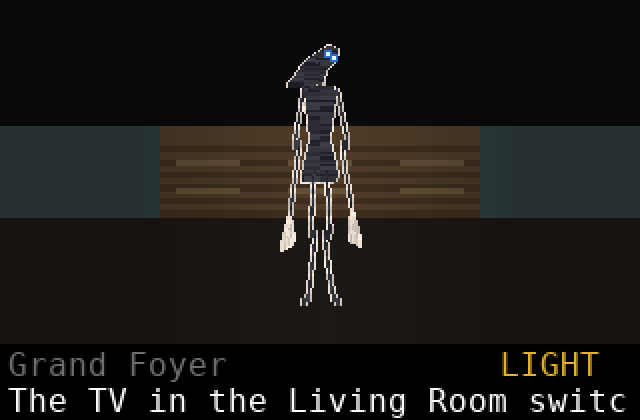
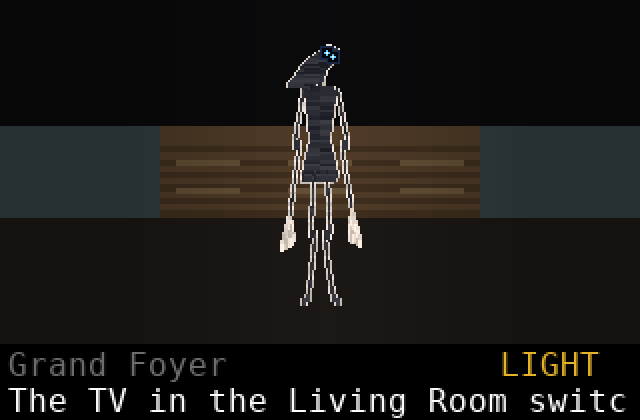
Give Ysolde the game's recessed glowing eyes
The full game draws each eye as a soft dark socket with a faint wide blue
halo, a tight blue bloom and a pin-point cold core, lit most of the time
once she wakes. The demo and icon now draw them the same way.

Claude-Session: https://claude.ai/code/session_01ABga3j6ZJ15ibdVoXrUo56

diff --git a/calc/GHCRYPT.py b/calc/GHCRYPT.py
@@ -396,16 +396,28 @@ def ys_column(x, left, wid, top, h):
                 g = random.randint(28, 62)
                 c = (g, g, g + 8)
             rect(a, y0, b - a, y1 - y0, c)
+    # eyes like the game's: a soft dark socket, a faint wide blue halo,
+    # a tight blue bloom and a pin-point cold core
+    pts = []
     for pa, pb, v0, v1 in eyes:
-        cx = (pa + pb) // 2
         cy = int(top + h * (1 - (v0 + v1) / 2))
-        if x - 2 <= cx < x1 + 2 and 0 <= cy < VH - 2:
-            ha = max(x, cx - 1)
-            hb = min(x1, cx + 3)
-            if hb - ha >= 1:
-                rect(ha, cy - 1, hb - ha, 4, (40, 110, 210))
-            if x <= cx < x1:
-                rect(cx, cy, 2, 2, (230, 250, 255))
+        if 2 <= cy <= VH - 4:
+            pts.append(((pa + pb) // 2, cy))
+    for r, c in ((max(3, int(wid * .045)), (22, 40, 70)), (max(2, int(wid * .028)), (4, 5, 8)),
+                 (max(1, int(wid * .012)), (88, 200, 255)), (0, (232, 251, 255))):
+        for cx, cy in pts:
+            if c[2] == 255 and r > 0:
+                # the bloom is a small plus around the core
+                for bx0, bx1, by0, by1 in ((cx - r, cx + r + 1, cy, cy + 1), (cx, cx + 1, cy - r, cy + r + 1)):
+                    ea = max(x, bx0)
+                    eb = min(x1, bx1)
+                    if eb - ea >= 1:
+                        rect(ea, by0, eb - ea, by1 - by0, c)
+                continue
+            ea = max(x, cx - r)
+            eb = min(x1, cx + r + 1)
+            if eb - ea >= 1:
+                rect(ea, max(0, cy - r), eb - ea, min(VH, cy + r + 1) - max(0, cy - r), c)
 
 
 # ---------- text screens ----------

diff --git a/calc/GHICONS.py b/calc/GHICONS.py
@@ -370,10 +370,16 @@ def crypt(x, y, c):
                 g = random.randint(28, 62)
                 hline(a + 1, b - 2, row, (g, g, g + 8))
     # small cold blue eyes
-    for ex, ey in ((137.2, 41.2), (149.1, 48.55)):
-        a, b = m(ex, ey)
-        circ(a, b, 1, (35, 95, 200))
-        box(a, b, 2, 2, (225, 248, 255))
+    eyes = [m(ex, ey) for ex, ey in ((137.2, 41.2), (149.1, 48.55))]
+    for r, col in ((3, (22, 40, 70)), (2, (4, 5, 8))):
+        for a, b in eyes:
+            circ(a, b, r, col)
+    for a, b in eyes:
+        a = int(a)
+        b = int(b)
+        hline(a - 1, a + 1, b, (88, 200, 255))
+        line(a, b - 1, a, b + 1, (88, 200, 255))
+        hline(a, a, b, (232, 251, 255))
     random.seed()
 
 
